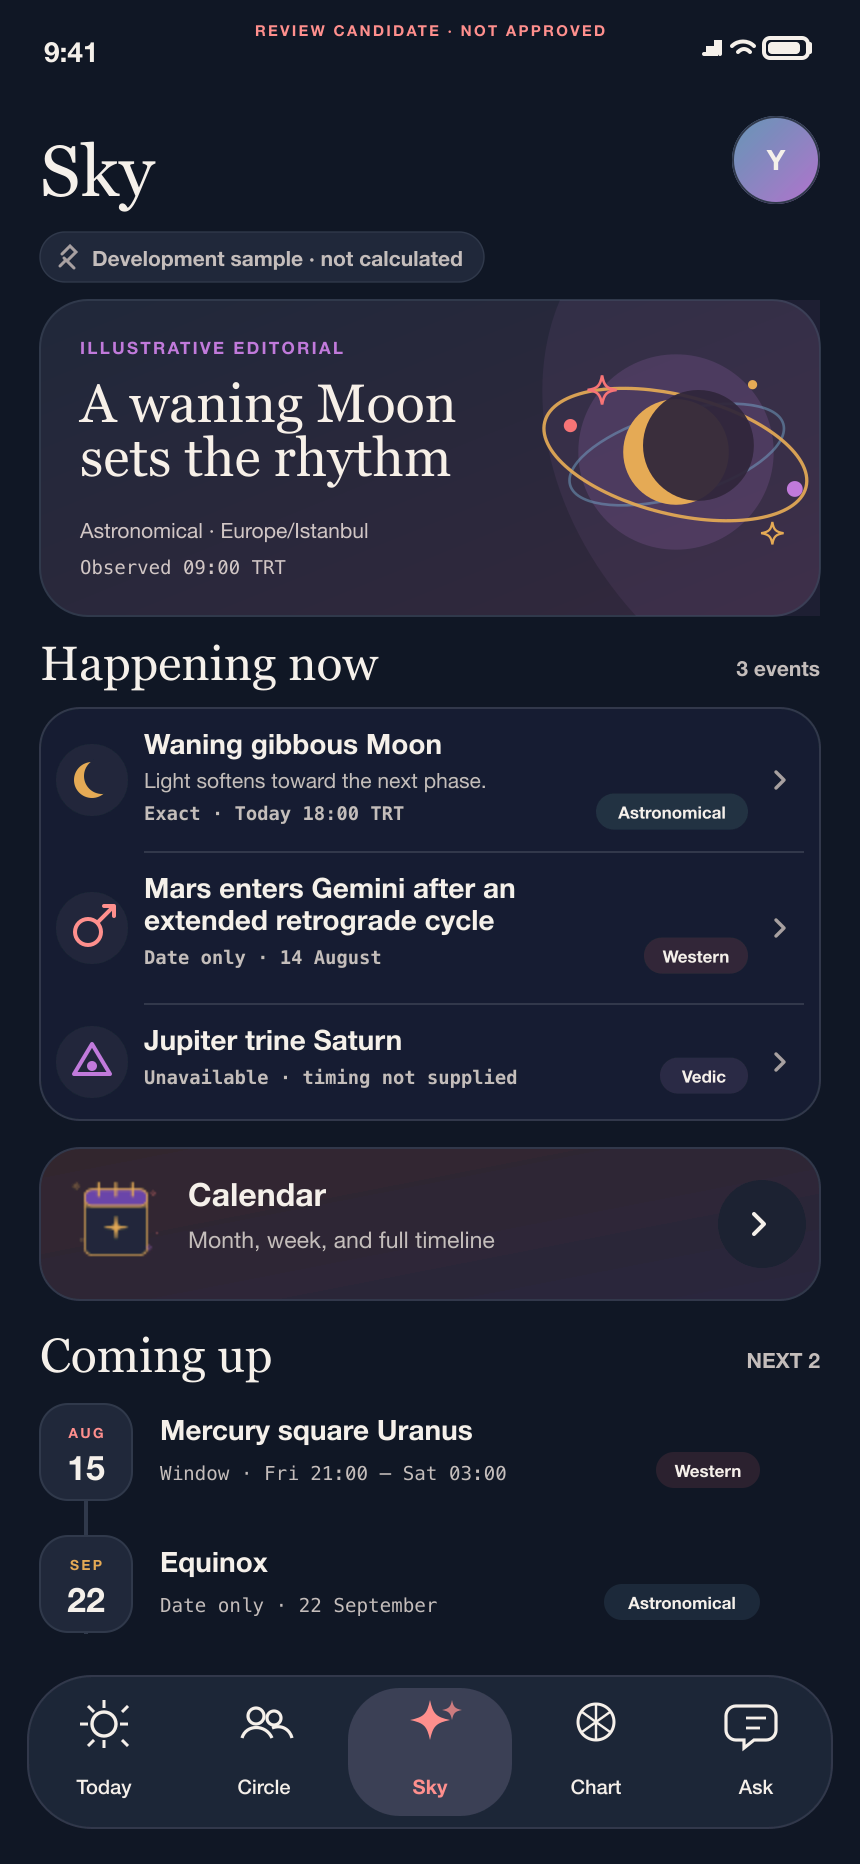
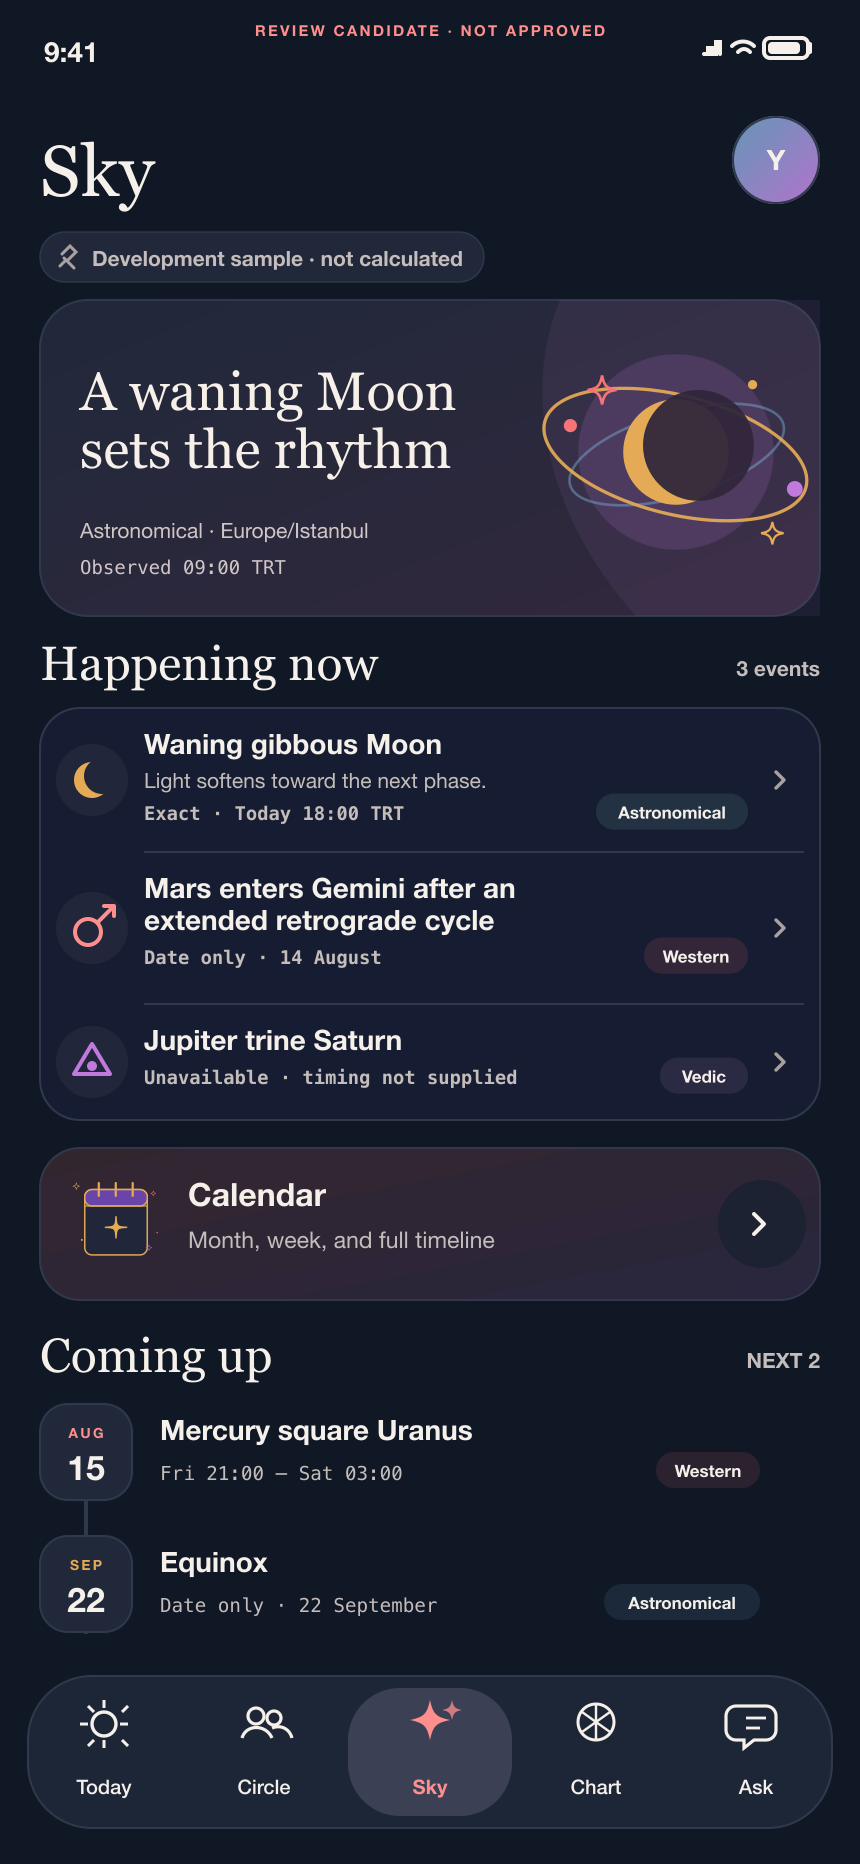
Clarify Current Sky reference composition

diff --git a/docs/design/soulful-reference/sky/current-sky/review-notes.md b/docs/design/soulful-reference/sky/current-sky/review-notes.md
@@ -7,7 +7,7 @@
 The design treats Current Sky as a **celestial editorial dashboard**:
 
 - one lunar-orbit identity moment rather than a sky map;
-- editorial headline paired with explicit observation context;
+- editorial headline paired with one quiet factual observation disclosure;
 - quiet, factual event rows instead of one illustrated card per event;
 - a warm, visually distinct Calendar route inside Sky;
 - a short timeline that signals there is more depth without becoming an endless feed.
@@ -24,7 +24,7 @@ Happening now uses one shared surface with three rows. Coming up drops the outer
 
 ### iPad
 
-The header spans both regions. Hero, Calendar, and observation context form the primary column. Happening now and Coming up form the secondary column. The columns use comparable visual weight without mirroring each other mechanically.
+The header spans both regions. Hero, a one-line observation footer, and Calendar form the primary column. Happening now and Coming up form the secondary column. The large Observation Context card was removed; timezone and freshness now appear once between the hero and Calendar. The sample has no location, so the footer does not invent one. The columns use comparable visual weight without mirroring each other mechanically.
 
 ## Light and Dark composition
 
@@ -50,11 +50,24 @@ The header spans both regions. Hero, Calendar, and observation context form the 
 | Form | Reference example | Presentation rule |
 |---|---|---|
 | Exact instant | `Exact · Today 18:00 TRT` | Clock time plus timezone context. |
-| Interval | `Window · Fri 21:00 – Sat 03:00` | Start and end remain visible. |
+| Interval | `Fri 21:00 – Sat 03:00` | Start and end remain visible without a technical interval label. |
 | Date-only | `Date only · 14 August` | No clock time is fabricated. |
 | Unavailable | `Unavailable · timing not supplied` | Explicit explanation replaces blank space. |
 
-Astronomical, Western, and Vedic appear as quiet text badges. Color helps scan, but the label carries the meaning. The badge location may move below the title at large Dynamic Type sizes.
+Astronomical, Western, and Vedic remain visible as quiet text badges on every event row for this candidate. Current Sky can mix systems, so methodology clarity outweighs conditional hiding until real content behavior exists. Color helps scan, but the text label carries the meaning. The badge may move below the title at large Dynamic Type sizes.
+
+## Hero copy contract
+
+The hero headline is approved only as a layout role within this review candidate; that limited decision does not approve the package or freeze production copy. Its future production source remains open. Implementation must not derive astrology claims arbitrarily. Later content may come from a Humay-owned presentation projection or an approved interpretation/catalog source.
+
+## Resolved for the current candidate
+
+- Lunar Meridian visual direction retained.
+- Methodology labels remain visible on event rows.
+- “Window” interval label removed.
+- Observation context reduced to quiet secondary metadata.
+- Calendar illustration retained as a candidate pending Calendar-family review.
+- Internal engineering and design language removed from product surfaces.
 
 ## Content stress test represented
 
@@ -72,7 +85,7 @@ Astronomical, Western, and Vedic appear as quiet text badges. Color helps scan, 
 | Candidate | Decision for this reference | Reason |
 |---|---|---|
 | `IllustrationCurrentSky` | Rejected for hero | Pleasant but reads as generic placeholder art; lacks the editorial focal structure needed for D3.1. |
-| `IllustrationCalendarCelestial` | Reused in Calendar entry | Clear semantics, compact silhouette, and strong Light/Dark variants. Reuse remains a review candidate, not production approval. |
+| `IllustrationCalendarCelestial` | Retained as candidate in Calendar entry | Clear semantics, compact silhouette, and strong Light/Dark variants. Ownership remains open until the wider Calendar family is reviewed. |
 | `IllustrationCelestialMoon` / `IllustrationCelestialSun` | Not used | Friendly Level-B art, but a face in the main hero would make the loaded dashboard too cute. |
 | `IllustrationFullMoon` / `IllustrationNewMoon` | Reserved | Suitable only when supplied event data supports the specific phase. |
 | `IllustrationRetrograde` / `IllustrationEclipse` / `IllustrationMeteorShower` | Reserved | Too prominent for default rows; useful only for an owning event or later detail surface. |
@@ -94,8 +107,9 @@ The “lunar meridian” art is a restrained symbolic orbit composition. It is n
 - Empty: legitimate quiet result with Calendar as the existing useful route.
 - Unavailable: explicit methodology/source limitation, no blank card.
 - Offline with cache: loaded content remains visible with persistent saved-time disclosure.
-- Offline without cache: reconnect copy, visually distinct from a sparse/empty sky.
-- Failed: distinct error language. No retry button is promised until the future pipeline owns recovery.
+- Offline without cache: “No saved sky available” and “Reconnect to view current events.” It remains visually distinct from a sparse/empty sky.
+- Failed: “Sky couldn’t load” and “The current sky couldn’t be loaded.” No retry button is promised until the future pipeline owns recovery.
+- Any rationale for the absent action sits in the state board’s external annotation area, outside the simulated product surface.
 
 See [states.svg](states.svg) for the board.
 
@@ -108,6 +122,7 @@ See [states.svg](states.svg) for the board.
 - [x] Static contrast audit: Light primary/ground 16.14:1, Light secondary/ground 5.90:1, Dark primary/ground 15.82:1, and Dark secondary/ground 9.68:1.
 - [x] Small Light accent metadata uses contrast-safe tonal variants (5.40:1–6.48:1) while preserving the approved accent hue; Dark accent text ranges from 5.55:1–8.01:1 on event surfaces.
 - [x] VoiceOver reading order and combined row labels are defined in `adaptive-notes.md`.
+- [x] The interval fixture reads as “From Friday at 21:00 until Saturday at 03:00” in VoiceOver rather than exposing “Window.”
 - [x] Decorative hero art has no factual responsibility and should be hidden from VoiceOver.
 - [x] Dynamic Type reflow rules preserve timing, methodology, and long titles.
 - [x] Reduce Motion leaves a complete static composition.
@@ -116,15 +131,10 @@ See [states.svg](states.svg) for the board.
 
 No numerical HIG score is assigned.
 
-## Unresolved review decisions
+## Unresolved or deferred
 
-1. Is the Lunar Meridian hero emotionally strong enough, or should the art become slightly more playful?
-2. Should future hero copy derive from the highest-priority event or use a separate presentation-owned editorial contract?
-3. Should methodology labels show on every row, or only where omission would conflate systems?
-4. Is “Window” the preferred user-facing interval label?
-5. Should observation context remain a distinct iPad card and a hero line on iPhone, or use one shared placement?
-6. Does Calendar need month-preview content after the Calendar family is designed, or is the direct entry stronger?
-7. When a real pipeline exists, which failed states support Retry, and which require passive guidance?
-8. Is `IllustrationCalendarCelestial` sufficiently distinct from its onboarding use to reuse here?
+1. Production source of the hero editorial copy.
+2. Exact recovery actions once `SKY-002` exists.
+3. Final Calendar-family behavior and artwork ownership.
 
 Only the product owner can resolve visual approval. No production implementation should begin from this candidate before that review.

diff --git a/docs/design/soulful-reference/sky/current-sky/design-spec.md b/docs/design/soulful-reference/sky/current-sky/design-spec.md
@@ -143,7 +143,7 @@ The package must address every state below, even when several share one componen
 | Unavailable | May share the empty-state shell, but must remain semantically distinct because methodology, timezone, location, or source availability may require different guidance. |
 | Offline with cached content | May share the loaded layout. Add a persistent, quiet cached/offline disclosure and avoid implying freshness. |
 | Offline with no cached content | May share the unavailable/error status shell, but needs explicit offline recovery copy and must not resemble an empty celestial day. |
-| Failed/error | Distinct recovery treatment with a clear retry path. It may reuse the status shell but must not be conflated with unsupported methodology or legitimate empty content. |
+| Failed/error | Distinct recovery treatment. It may reuse the status shell but must not be conflated with unsupported methodology or legitimate empty content. Show an action only when a future pipeline contract exposes one. |
 
 At minimum, create a dedicated state board or annotated reference covering loading, empty, unavailable, both offline variants, and failed/error. The four main references may remain loaded/default. State annotations must explain appearance and compact/regular adaptation rather than requiring four full screenshots for every state unless review finds a meaningful compositional difference.
 
@@ -230,7 +230,7 @@ The approved package must account for:
 - Reduce Motion behavior for any future orbit, sparkle, or entrance motion;
 - safe areas, native back behavior, iPad pointer, and keyboard navigation.
 
-The HIG review target is 10/10. Current Current Sky visual score is 0/10 because no references exist yet, not because an interface was reviewed and failed. Reaching 10/10 requires approved references that satisfy safe areas, touch targets, Dark Mode, Dynamic Type, VoiceOver, native navigation, semantic color, native controls, standard gestures, and appropriate system/vector icon use.
+The HIG review remains qualitative at this stage. Approved references must satisfy safe areas, touch targets, Dark Mode, Dynamic Type, VoiceOver, native navigation, semantic color, native controls, standard gestures, and appropriate system/vector icon use. No numerical HIG score is assigned to static references.
 
 ## 11. Existing asset audit
 
@@ -281,19 +281,21 @@ DevelopmentD3Sample exists only to exercise typed states and future UI behavior.
 - Debug screenshots must disclose sample content visibly.
 - Release must contain no sample astrology payload.
 
-## 13. Design risks and unresolved product questions
+## 13. Candidate decisions and deferred product questions
 
-Resolve or explicitly defer these during visual review:
+Resolved for the current review candidate:
 
-1. **Hero content contract:** current Domain contracts expose a snapshot and events, but no dedicated editorial hero headline or celestial-character field. Decide whether the hero derives from a selected event or needs a future Humay-owned presentation contract; do not encode sample copy as the answer.
-2. **Current versus upcoming grouping:** SkySnapshot carries events without a frozen grouping or display limit. Define design behavior for ordering, current relevance, and the concise upcoming cutoff without turning it into provider logic.
-3. **System-label policy:** decide when astronomical/Western/Vedic labels are always visible, conditionally visible, or grouped, while preserving methodology clarity.
-4. **Reliability copy:** define user-facing wording for approximate and unavailable states. Keep unverified wording development-only and visible in Debug.
-5. **Observation context:** decide when timezone and location appear in the hero, event row, or detail entry so exact timing is not misleading.
-6. **Calendar entry behavior:** Calendar ownership is fixed under Sky, but the visual pass still needs to choose prominence and default month/week language.
-7. **Recovery actions:** retry, refresh, and settings/location guidance depend on future pipeline capabilities. References must not promise actions that contracts cannot later support.
-8. **Asset suitability:** IllustrationCurrentSky and other existing celestial art may be too generic or too prominent for the final hero. Approval must judge the composition, not reward reuse.
-9. **Long and localized content:** references must stress-test long event names, missing summaries, multiple methodologies, accessibility text sizes, and constrained iPad windows.
+- Astronomical, Western, and Vedic labels remain visible on event rows.
+- Intervals use natural start/end text rather than “Window.”
+- Observation context is one quiet secondary disclosure and is not repeated.
+- `IllustrationCalendarCelestial` remains candidate art pending Calendar-family review.
+- Long titles, missing summaries, mixed timing, mixed methodology, and constrained layouts remain represented in the references.
+
+Deferred beyond this visual pass:
+
+1. **Hero content contract:** current Domain contracts expose a snapshot and events, but no dedicated editorial hero headline or celestial-character field. The future source may be a Humay-owned presentation projection or an approved interpretation/catalog source; implementation must not derive astrology claims arbitrarily.
+2. **Recovery actions:** exact retry, refresh, settings, or passive-guidance behavior depends on `SKY-002`. References do not promise unsupported actions.
+3. **Calendar family:** final month/week behavior and artwork ownership remain open until the wider Calendar family is designed.
 
 ## 14. Visual review checklist
 

diff --git a/docs/design/soulful-reference/sky/current-sky/adaptive-notes.md b/docs/design/soulful-reference/sky/current-sky/adaptive-notes.md
@@ -16,19 +16,18 @@ Use one scroll column with 20–24 pt side margins and this order:
 
 1. Sky header and profile/settings entry
 2. development-sample disclosure in Debug only
-3. current celestial hero
+3. current celestial hero, with one concise observation treatment when factual context is relevant
 4. Happening now
 5. Calendar entry
 6. Coming up
-7. observation context when it is needed
 
-The phone reference keeps all major regions discoverable in one viewport while showing useful event content immediately after the hero. The bottom navigation remains the existing native five-destination shell.
+The phone reference keeps all major regions discoverable in one viewport while showing useful event content immediately after the hero. Observation data is not repeated elsewhere in the composition. The bottom navigation remains the existing native five-destination shell.
 
 ### Regular width
 
 At roughly 820 pt of usable width and above, use a bounded two-region composition:
 
-- primary/left: hero, Calendar entry, observation context;
+- primary/left: hero, one-line observation footer, then Calendar entry;
 - secondary/right: Happening now, then Coming up timeline.
 
 The 1024 pt reference uses a 928 pt content area: a 454 pt primary region, 32 pt gap, and 442 pt secondary region. Long-form text remains bounded. Body type, corner radii, event glyphs, and controls do not scale in proportion to the canvas.
@@ -38,7 +37,7 @@ The 1024 pt reference uses a 928 pt content area: a 454 pt primary region, 32 pt
 - Center the two-region content within a maximum width near 1120 pt.
 - Keep the primary region near 46% and the secondary region near 54%; add outer margin before enlarging either column.
 - Allow the hero art to breathe horizontally, but do not increase its height beyond the content need.
-- Keep Calendar below the hero and the event timeline beside it. Do not introduce a third feed column.
+- Keep the quiet observation footer and Calendar below the hero, with the event timeline beside them. Do not introduce a third feed column.
 - Preserve the native adaptive top tab/sidebar presentation and existing Sky route ownership.
 
 ### Split View and narrow iPad windows
@@ -51,6 +50,7 @@ When the two bounded regions cannot preserve readable event rows, collapse to th
 - Event rows expand vertically. Order becomes glyph, title, optional summary, timing, then methodology. Critical timing never truncates.
 - A long methodology label moves to its own line; it does not squeeze the event title.
 - Calendar copy wraps above its disclosure indicator. The complete row remains a minimum 44 pt target.
+- Observation metadata may wrap to two concise lines. Its field order is timezone, supplied location, then observed/freshness time; absent values are omitted. A second line may explain date-only timing only when the visible content needs that clarification. It never becomes a separate card or repeats metadata already presented with the hero.
 - At accessibility sizes, the two-region iPad composition may collapse even when the geometric width is regular.
 - Decorative art and sparse sparkles may be hidden before factual text is compressed.
 
@@ -63,16 +63,19 @@ When the two bounded regions cannot preserve readable event rows, collapse to th
 
 ## VoiceOver order
 
+Compact order follows the single visual column:
+
 1. Sky heading
 2. Profile and settings
 3. Debug disclosure when present
-4. Illustrative hero headline, then factual observation context
+4. Hero headline and factual observation context
 5. Happening now heading and event rows
 6. Calendar entry
 7. Coming up heading and timeline entries
-8. supporting observation note if it has not already been read with the hero
 
-Decorative lunar-orbit art is hidden. Event glyph labels are supplied through their parent rows, for example “Waning gibbous Moon, Astronomical, exact, today at 18:00 TRT.”
+Regular-width order finishes the primary/left region before the secondary/right region: Sky heading, Profile and settings, Debug disclosure, hero headline, observation footer, Calendar, Happening now, then Coming up. This order remains stable for keyboard focus as well as VoiceOver.
+
+Decorative lunar-orbit art is hidden. Event glyph labels are supplied through their parent rows, for example “Waning gibbous Moon, Astronomical, exact, today at 18:00 TRT.” The interval example reads “Mercury square Uranus, Western. From Friday at 21:00 until Saturday at 03:00.”
 
 ## Safe areas and motion
 

diff --git a/docs/design/soulful-reference/sky/current-sky/README.md b/docs/design/soulful-reference/sky/current-sky/README.md
@@ -20,7 +20,7 @@ The four device references are loaded/default candidates. Approval remains packa
 
 **Lunar Meridian** — a celestial editorial dashboard built around one restrained lunar-orbit hero, compact factual event rows, a distinct nested Calendar entry, and a short upcoming timeline.
 
-The reference demonstrates exact, interval, date-only, and unavailable timing; Astronomical, Western, and Vedic labels; long titles; optional summaries; multiple events; and a sparse day. All event values and editorial copy are illustrative.
+The reference demonstrates exact, interval, date-only, and unavailable timing; Astronomical, Western, and Vedic labels; long titles; optional summaries; multiple events; and a sparse day. Interval text uses a natural start/end range, and observation metadata appears once per composition. All event values and editorial copy are illustrative.
 
 ## Package files
 
@@ -33,14 +33,16 @@ The reference demonstrates exact, interval, date-only, and unavailable timing; A
 - `elements/current-sky-orbit-dark.svg`
 - `adaptive-notes.md`
 - `review-notes.md`
-- `design-spec.md` — unchanged requirements authority
+- `design-spec.md` — requirements authority
 - `generate-references.cjs` — reference-only SVG/PNG generator
 
 ## Approval boundary
 
 - Every new artifact is labeled **REVIEW CANDIDATE — NOT APPROVED**.
-- The hero headline is explicitly illustrative because Domain has no approved editorial-hero contract.
+- The hero headline is illustrative. Its layout role is accepted for this candidate, but its production source is not frozen because Domain has no approved editorial-hero contract.
 - Calendar remains a child route inside Sky.
+- Astronomical, Western, and Vedic methodology labels remain visible and quiet on event rows for this candidate.
+- `IllustrationCalendarCelestial` remains candidate art pending review of the wider Calendar family.
 - `Development sample · not calculated` is visible as a Debug screenshot treatment, not a Release banner proposal.
 - No Current Sky, Calendar, or event-detail production UI is implemented by this package.
 - Existing production assets are not modified or promoted by this package.
